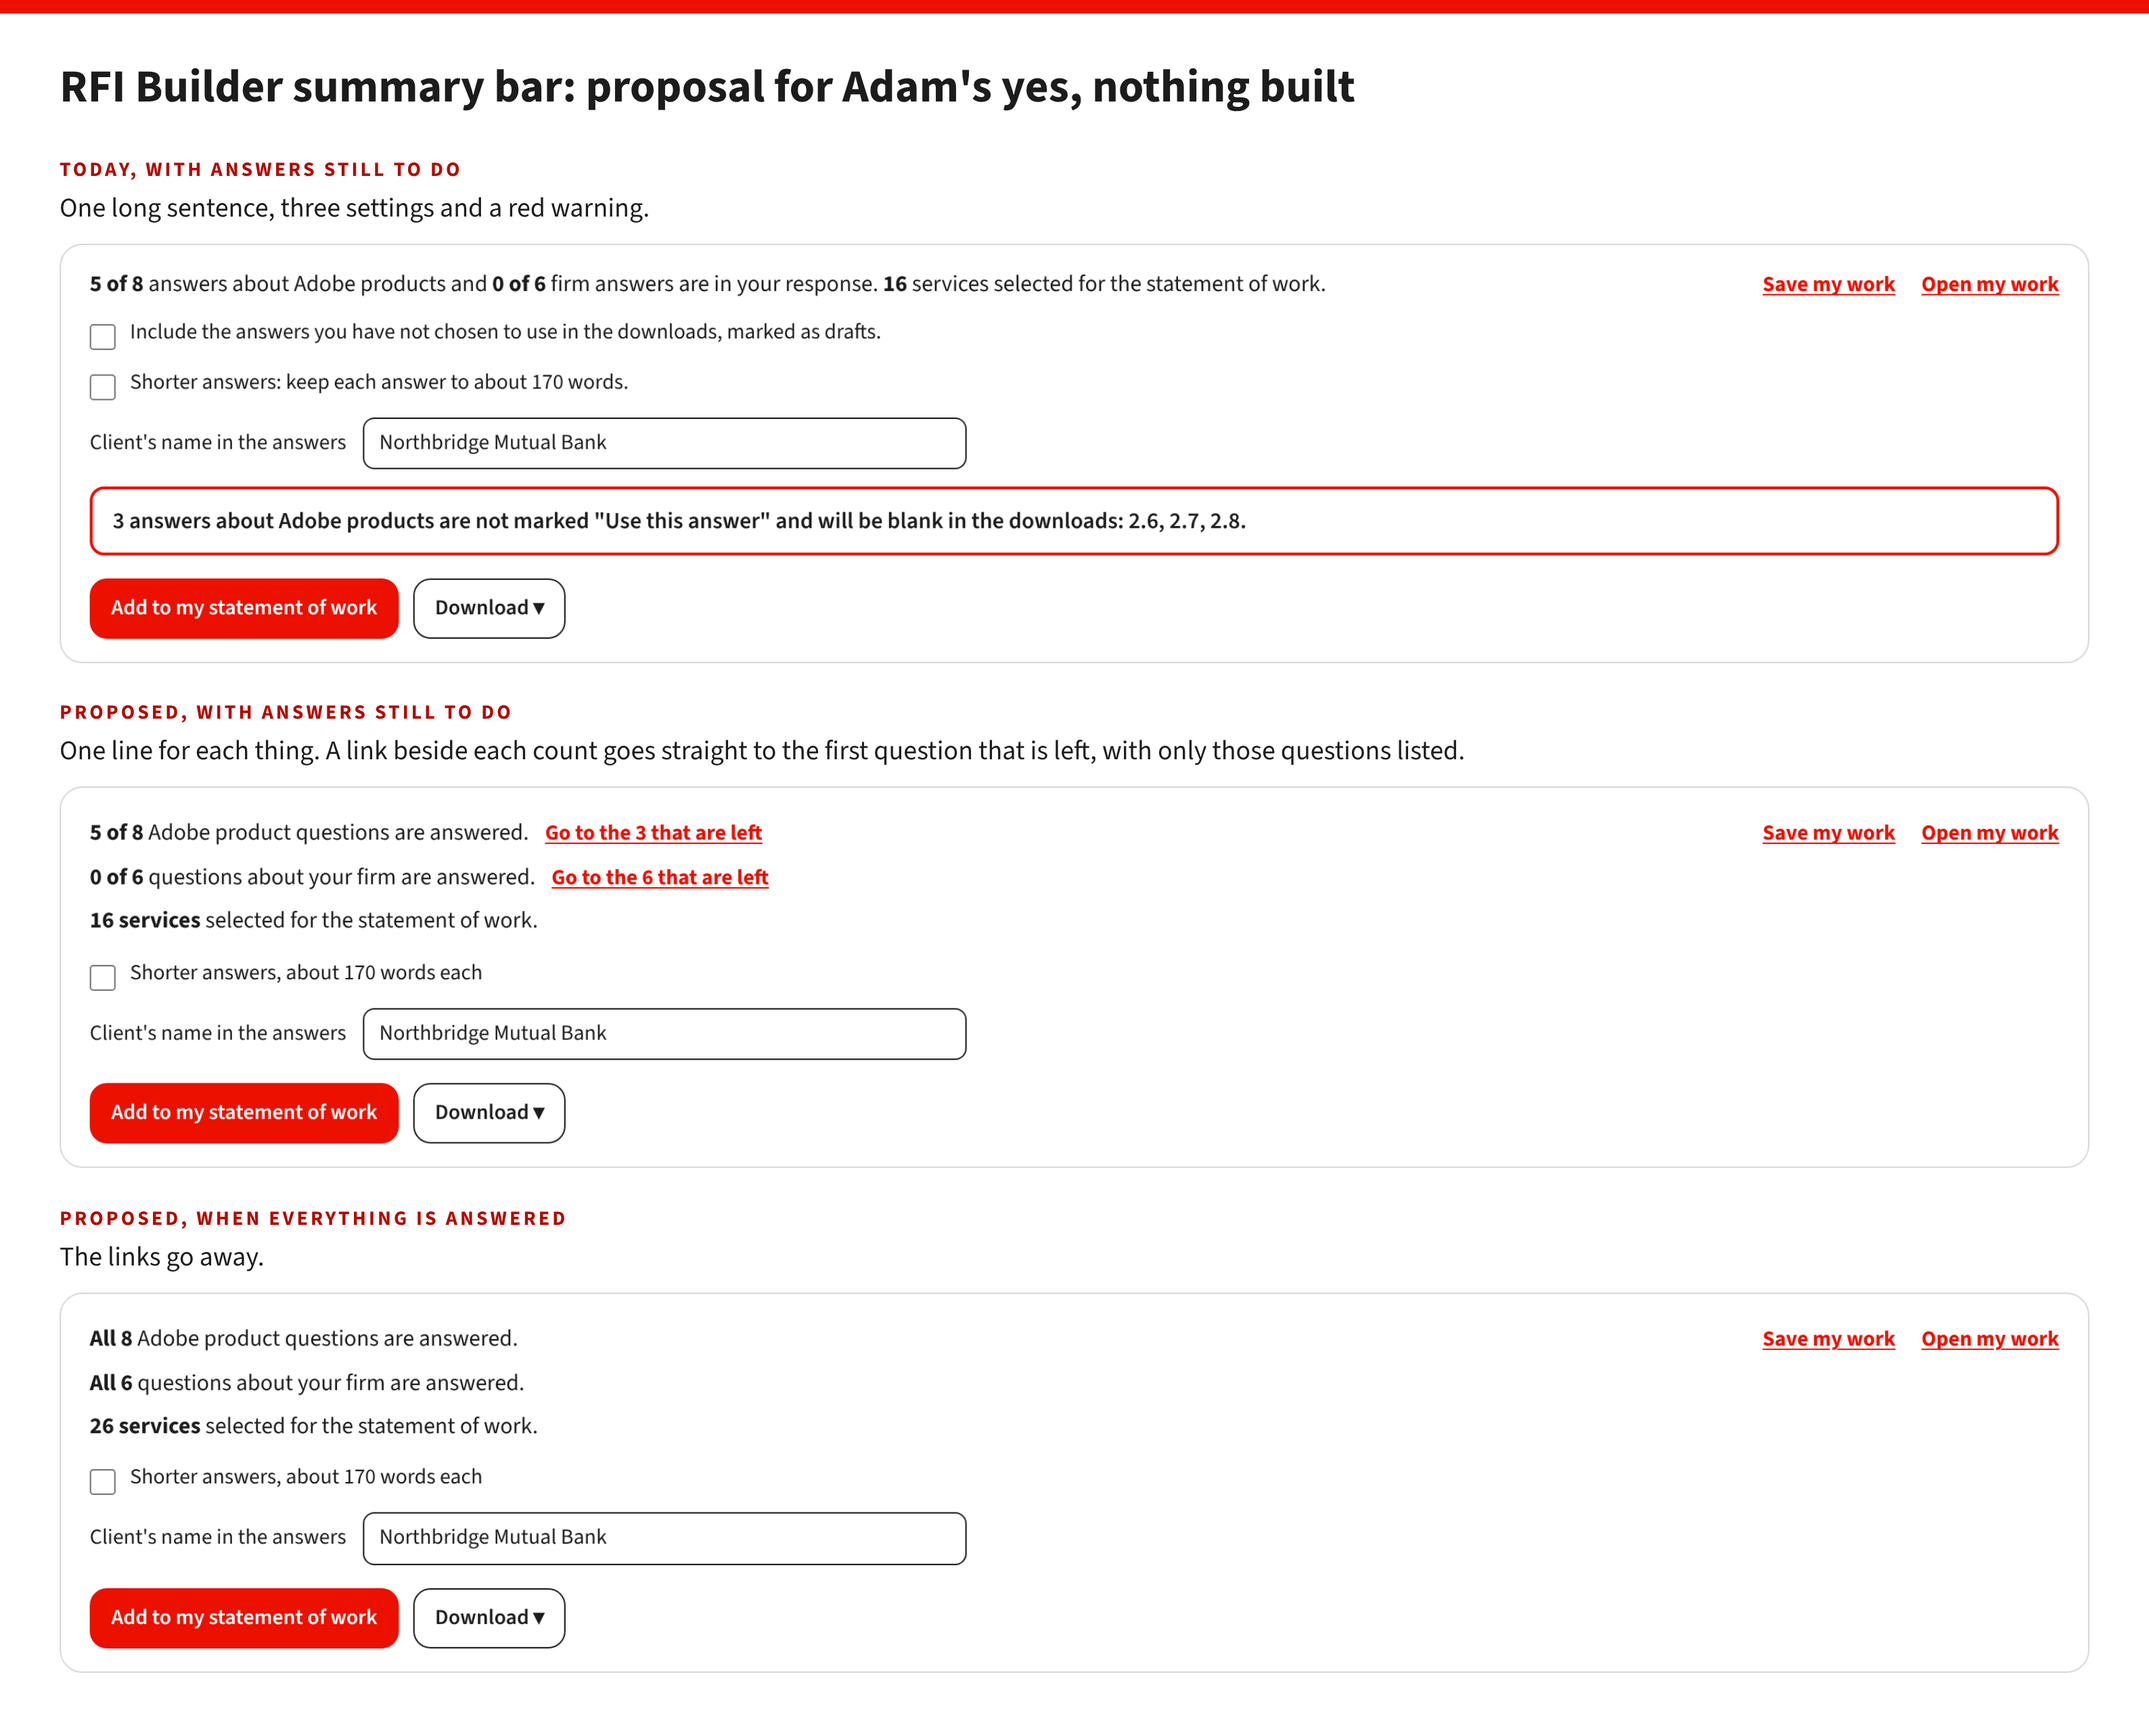
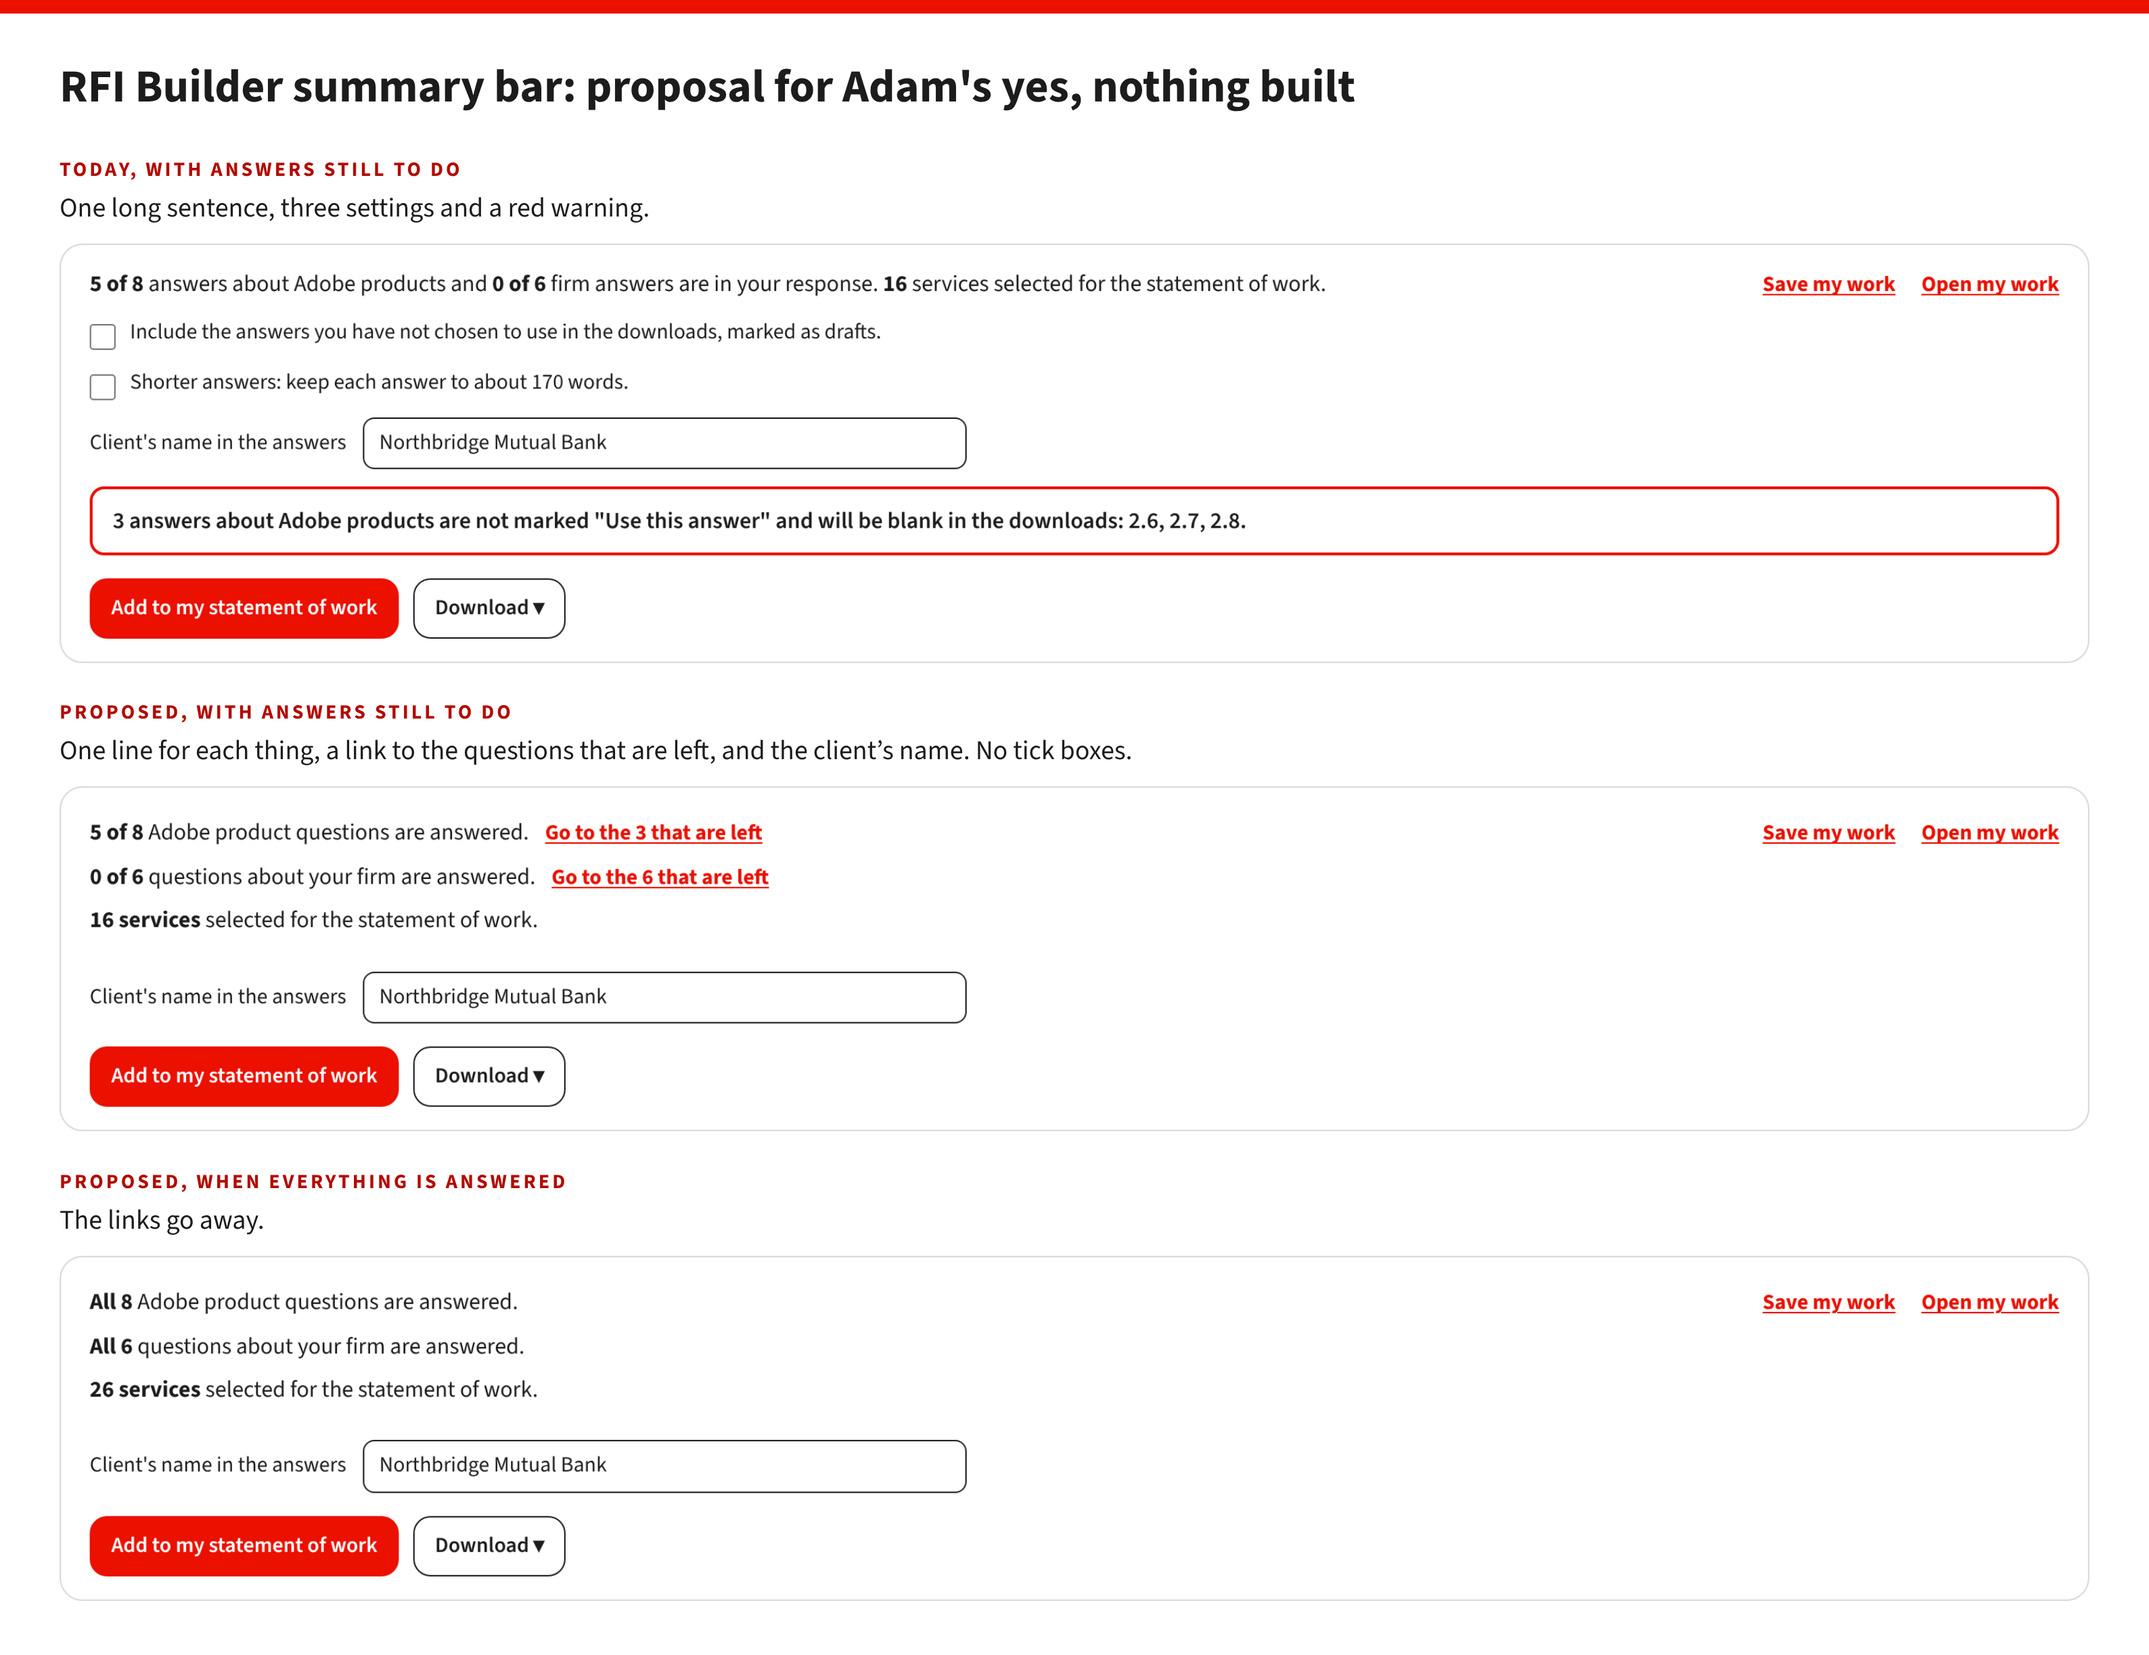
RFI Builder summary bar mockup: no tick boxes, counts with links and the client's name (proposal, nothing built) [skip netlify]
Claude-Session: https://claude.ai/code/session_01XvxkNfGqRHQ5UPPdtg61em

diff --git a/mockups/nov10_summary_options/mock.js b/mockups/nov10_summary_options/mock.js
@@ -12,7 +12,8 @@ const {open} = require(path.join(__dirname, '..', '..', 'rfp_prototype', 'review
   const shot = async () => (await (await p.$('#rfp-summary')).screenshot()).toString('base64');
   const draw = (rows) => p.evaluate(rows => { const el = document.getElementById('rfp-summary'), labs = [...el.querySelectorAll('.rfp-include')], warn = document.getElementById('rfp-blank-warn');
     labs[0].remove(); if (warn) warn.remove();   // the drafts tick box and the blank-answers warning go: answers not chosen are left out of the downloads
-    labs[1].querySelector('span').textContent = 'Shorter answers, about 170 words each';
+    el.querySelector('.rfp-client').style.margin = '14px 0 16px';
+    labs[1].remove();   // Shorter answers goes too: a partner edits an answer, and an RFI's own word limit is still obeyed
     // the count says what is done and what is left, and each "left" is a link to the first question it means
     const pEl = el.querySelector('.rfp-sum-head p'); pEl.style.lineHeight = '1.9';
     pEl.innerHTML = rows.map(r => r[0] + (r[1] ? ' <button type="button" class="rfp-link" style="margin-left:8px">' + r[1] + '</button>' : '')).join('<br>'); }, rows);
@@ -29,7 +30,7 @@ body{margin:0;font-family:"Source Sans 3",sans-serif;color:#1C1C1C;background:#f
 h1{font-size:34px;margin:0 0 22px}.k{font-size:15px;font-weight:700;letter-spacing:2px;color:#B30B00;text-transform:uppercase;margin-top:26px}p{font-size:20px;line-height:28px;margin:4px 0 12px}img{width:100%;display:block}
 </style></head><body><div class="bar"></div><main><h1>RFI Builder summary bar: proposal for Adam's yes, nothing built</h1>
 ${part('Today, with answers still to do', 'One long sentence, three settings and a red warning.', todaySome)}
-${part('Proposed, with answers still to do', 'One line for each thing. A link beside each count goes straight to the first question that is left, with only those questions listed.', some)}
+${part('Proposed, with answers still to do', 'One line for each thing, a link to the questions that are left, and the client\u2019s name. No tick boxes.', some)}
 ${part('Proposed, when everything is answered', 'The links go away.', all)}
 </main></body></html>`;
   if (/[–—]/.test(html.replace(/data:[^"')]+/g, ''))) throw new Error('a dash in the page');
